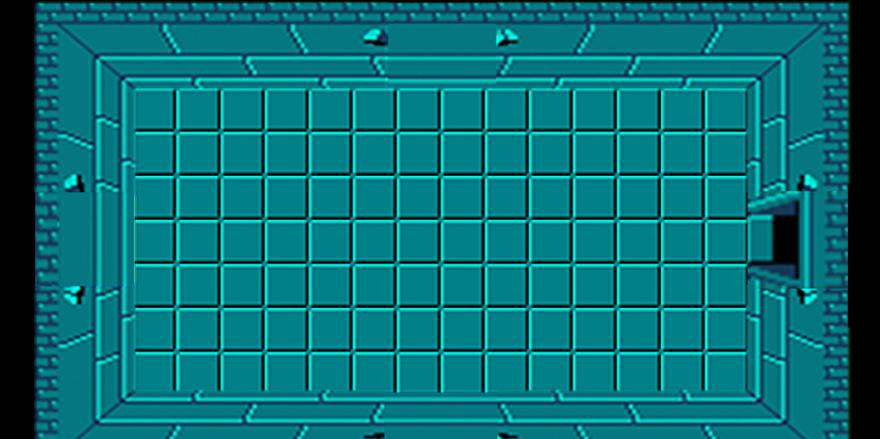
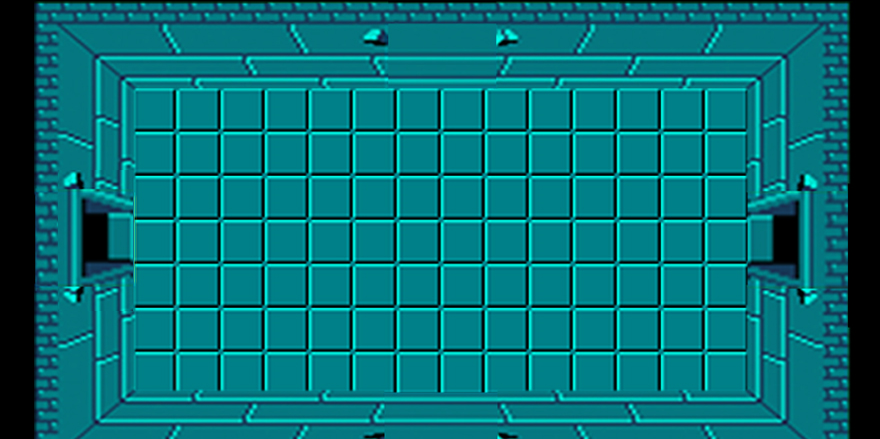
Added remaining rooms with Room 9 being placeholder for when key door is added; Fixed issue where link could get stuck

Changed region(s): [[0.0614, 0.385, 0.1534, 0.7107]]

diff --git a/Sprint2Pork/Game1.cs b/Sprint2Pork/Game1.cs
@@ -342,7 +342,7 @@ namespace Sprint2Pork
             else if (currentRoom == "room1" && link.GetX() < 100)
             {
                 nextRoom = "room5";
-                nextRoomTexture = Content.Load<Texture2D>("Background");
+                nextRoomTexture = Content.Load<Texture2D>("Room5");
                 transitionDirection = new Vector2(-1, 0);
                 SetRectangles();
                 link.SetX(GraphicsDevice.Viewport.Width - 101);
@@ -424,7 +424,7 @@ namespace Sprint2Pork
             else if (currentRoom == "room5" && link.GetY() > GraphicsDevice.Viewport.Height - 30)
             {
                 nextRoom = "room6";
-                nextRoomTexture = Content.Load<Texture2D>("Background");
+                nextRoomTexture = Content.Load<Texture2D>("Room6");
                 transitionDirection = new Vector2(0, 1);
                 SetRectangles();
                 //RoomChange.SwitchRoom("room2", ref currentRoom, ref blocks, ref groundItems, ref enemies, ref fireballManagers, rooms);
@@ -436,18 +436,18 @@ namespace Sprint2Pork
             else if (currentRoom == "room6" && link.GetY() < 100)
             {
                 nextRoom = "room5";
-                nextRoomTexture = Content.Load<Texture2D>("Room2Alone");
+                nextRoomTexture = Content.Load<Texture2D>("Room5");
                 //RoomChange.SwitchRoom("room3", ref currentRoom, ref blocks, ref groundItems, ref enemies, ref fireballManagers, rooms);
                 transitionDirection = new Vector2(0, -1);
                 SetRectangles();
-                link.SetY(GraphicsDevice.Viewport.Height - 99);
+                link.SetY(GraphicsDevice.Viewport.Height - 70);
                 currentRoom = nextRoom;
                 this.gameState = Game1State.Transitioning;
             }
             else if (currentRoom == "room6" && link.GetY() > GraphicsDevice.Viewport.Height - 30)
             {
                 nextRoom = "room7";
-                nextRoomTexture = Content.Load<Texture2D>("Background");
+                nextRoomTexture = Content.Load<Texture2D>("Room7");
                 transitionDirection = new Vector2(0, 1);
                 SetRectangles();
                 //RoomChange.SwitchRoom("room2", ref currentRoom, ref blocks, ref groundItems, ref enemies, ref fireballManagers, rooms);
@@ -459,7 +459,7 @@ namespace Sprint2Pork
             else if (currentRoom == "room7" && link.GetY() < 100)
             {
                 nextRoom = "room6";
-                nextRoomTexture = Content.Load<Texture2D>("Room2Alone");
+                nextRoomTexture = Content.Load<Texture2D>("Room6");
                 //RoomChange.SwitchRoom("room3", ref currentRoom, ref blocks, ref groundItems, ref enemies, ref fireballManagers, rooms);
                 transitionDirection = new Vector2(0, -1);
                 SetRectangles();
@@ -470,7 +470,7 @@ namespace Sprint2Pork
             else if (currentRoom == "room5" && link.GetX() < 100)
             {
                 nextRoom = "room8";
-                nextRoomTexture = Content.Load<Texture2D>("Background");
+                nextRoomTexture = Content.Load<Texture2D>("Room8");
                 transitionDirection = new Vector2(-1, 0);
                 SetRectangles();
                 link.SetX(GraphicsDevice.Viewport.Width - 101);
@@ -480,7 +480,7 @@ namespace Sprint2Pork
             else if (currentRoom == "room8" && link.GetX() > GraphicsDevice.Viewport.Width - 100)
             {
                 nextRoom = "room5";
-                nextRoomTexture = Content.Load<Texture2D>("Background");
+                nextRoomTexture = Content.Load<Texture2D>("Room5");
                 link.SetX(100);
 
                 transitionDirection = new Vector2(1, 0);
@@ -490,7 +490,7 @@ namespace Sprint2Pork
             else if (currentRoom == "room8" && link.GetY() < 100)
             {
                 nextRoom = "room9";
-                nextRoomTexture = Content.Load<Texture2D>("Background");
+                nextRoomTexture = Content.Load<Texture2D>("Room9");
                 //RoomChange.SwitchRoom("room3", ref currentRoom, ref blocks, ref groundItems, ref enemies, ref fireballManagers, rooms);
                 transitionDirection = new Vector2(0, -1);
                 SetRectangles();
@@ -502,7 +502,7 @@ namespace Sprint2Pork
             else if (currentRoom == "room9" && link.GetY() > GraphicsDevice.Viewport.Height - 30)
             {
                 nextRoom = "room8";
-                nextRoomTexture = Content.Load<Texture2D>("Background");
+                nextRoomTexture = Content.Load<Texture2D>("Room8");
                 transitionDirection = new Vector2(0, 1);
                 SetRectangles();
                 //RoomChange.SwitchRoom("room2", ref currentRoom, ref blocks, ref groundItems, ref enemies, ref fireballManagers, rooms);
